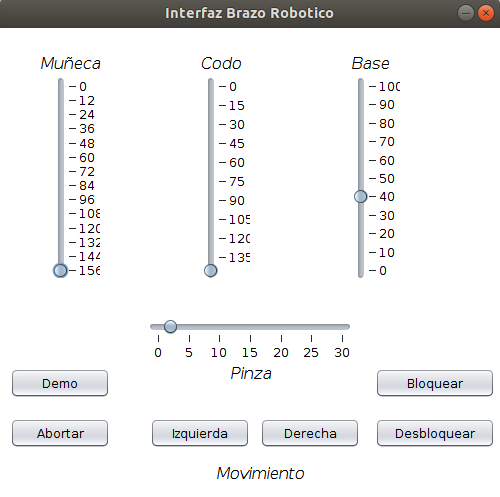
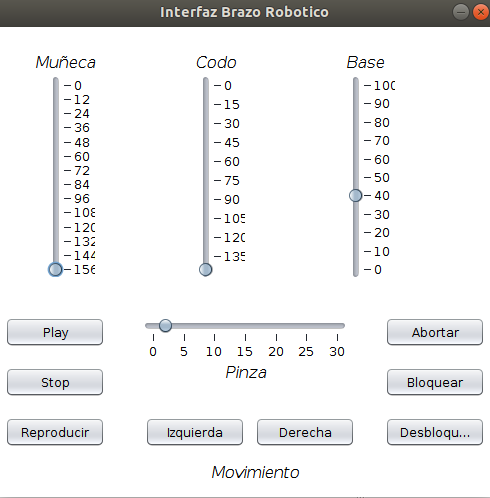
Actualización Arduino y README

diff --git a/README.md b/README.md
@@ -2,7 +2,7 @@
 
 ## Descripción del proyecto
 
-El presente proyecto consiste en un brazo robótico de 5 ejes el cual sigue una serie de pasos hasta que se le de la instrucción de abortar.
+El presente proyecto consiste en un brazo robótico de 5 ejes al cual se le pueden programar una serie de pasos que realiza hasta que se le de la instrucción de abortar.
 
 El brazo cuenta con un botón que sirve para fallos de emergencias.
 
@@ -83,4 +83,15 @@ Los 5 ejes con los que cuenta el brazo son:
  >Se ejecutará la siguiente interfaz gráfica con la que podremos controlar el brazo
 
    ![](/Imagenes/Interfaz.png)
+
+Con los sliders podemos configurar el ángulo en el que queremos la muñeca, el codo, el brazo y la pinza.
+
+Con los botones 'Izquiera' y 'Derecha' controlamos el ángulo hacia el que apunta la base.
+
+Con el botón 'Bloquear' se bloquea el brazo de manera que no se puedan ejecutar los pasos que seleccionemos.
+Con el botón 'Desbloquear' lo desbloqueamos.
+Con el botón 'Play' comenzamos a grabar los pasos que programemos a continuacion.
+Con el botón 'Stop' dejamos de programar los movimientos.
+Con el botón 'Reproducir' ejecutamos los pasos programados anteriormente.
+Con el botón 'Abortar' detenemos la ejecución de los pasos programados.
 
